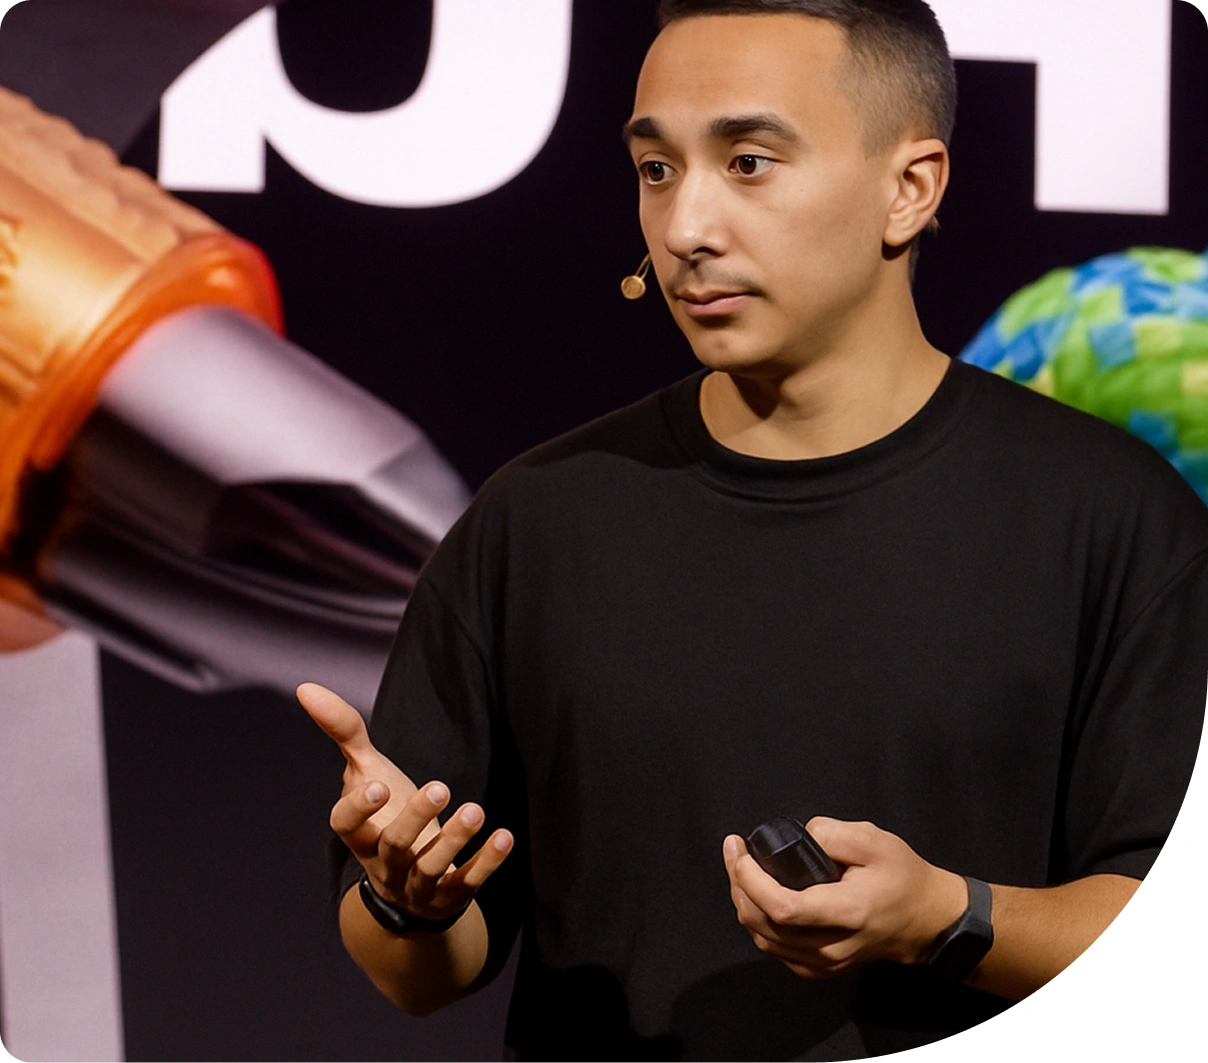
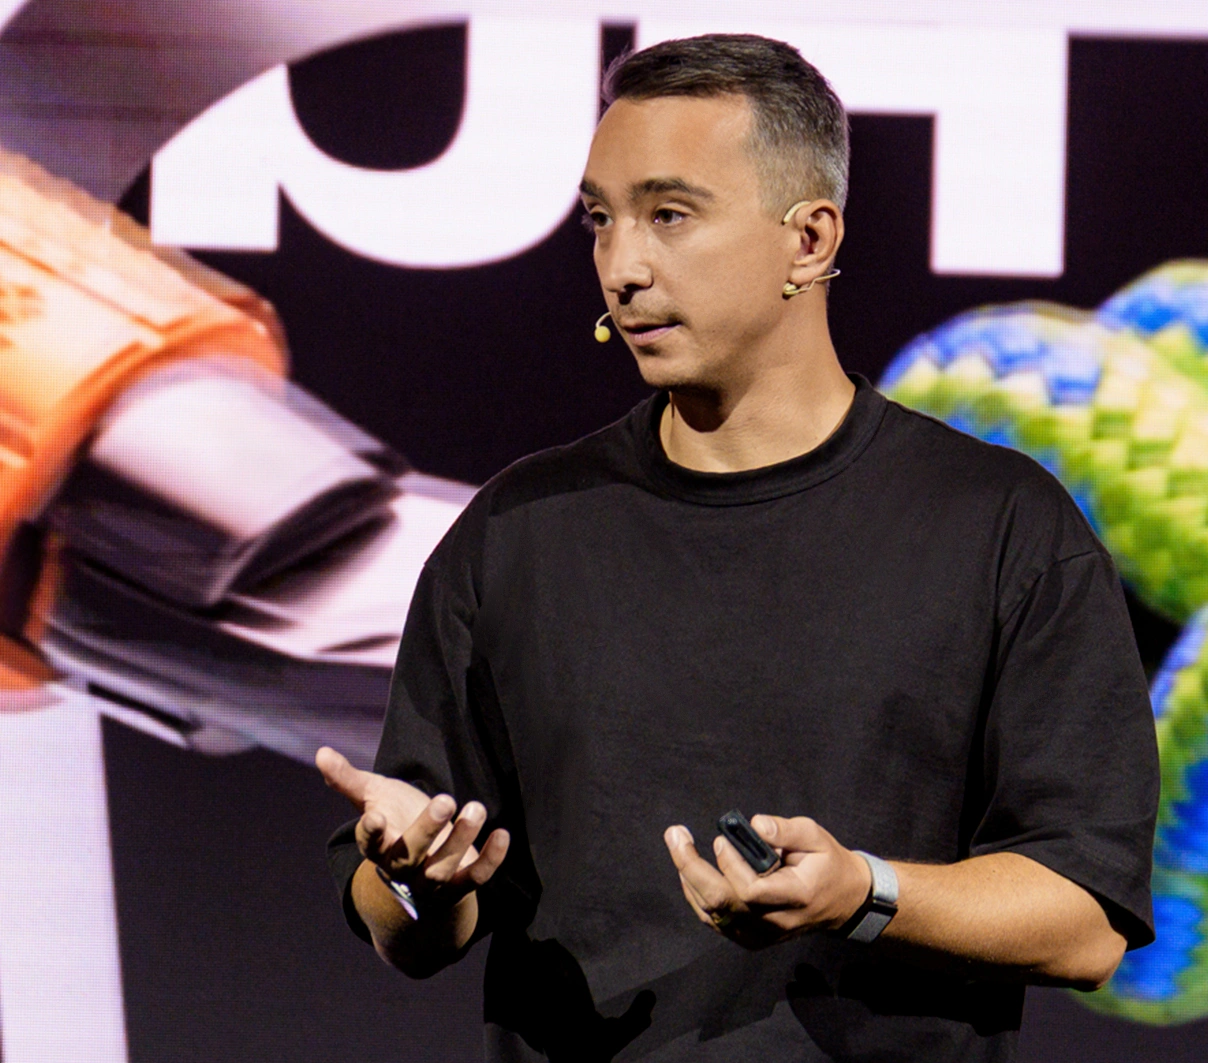
change img and stop infinity line

diff --git a/src/app/blocks/infinity-banner/infinity-banner.css b/src/app/blocks/infinity-banner/infinity-banner.css
@@ -9,6 +9,12 @@
     cursor: pointer;
     margin-bottom: 60px;
 
+    &:hover {
+      .infinity-banner-marquee {
+        animation-play-state: paused;
+      }
+    }
+
     @media screen and (max-width: 1024px) {
         gap: 32px;
 

diff --git a/src/app/blocks/growth-points-scrollable-block/growth-points-scrollable-block.css b/src/app/blocks/growth-points-scrollable-block/growth-points-scrollable-block.css
@@ -92,7 +92,7 @@
     overflow: hidden;
 
     @media screen and (max-width: 1720px) {
-      height: 450px;
+      height: 475px;
     }
 
     @media screen and (max-width: 1280px) {
